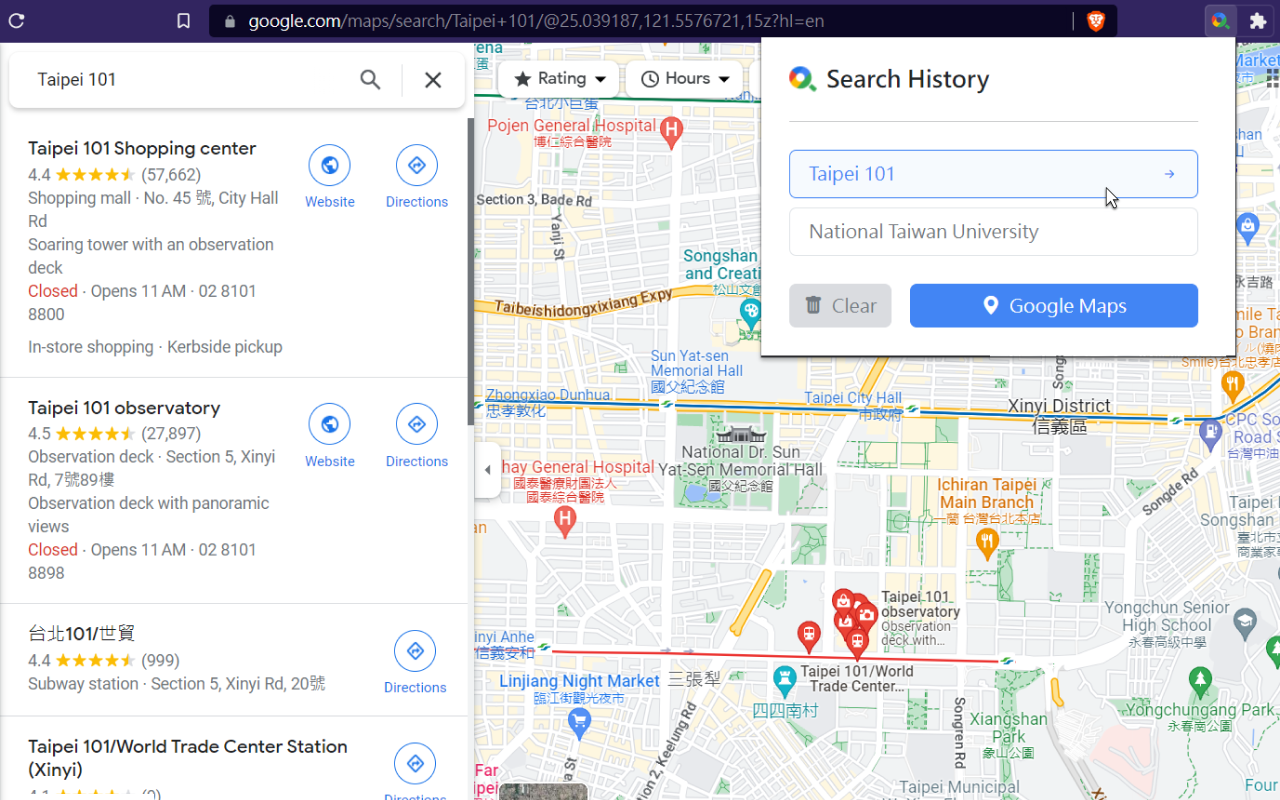
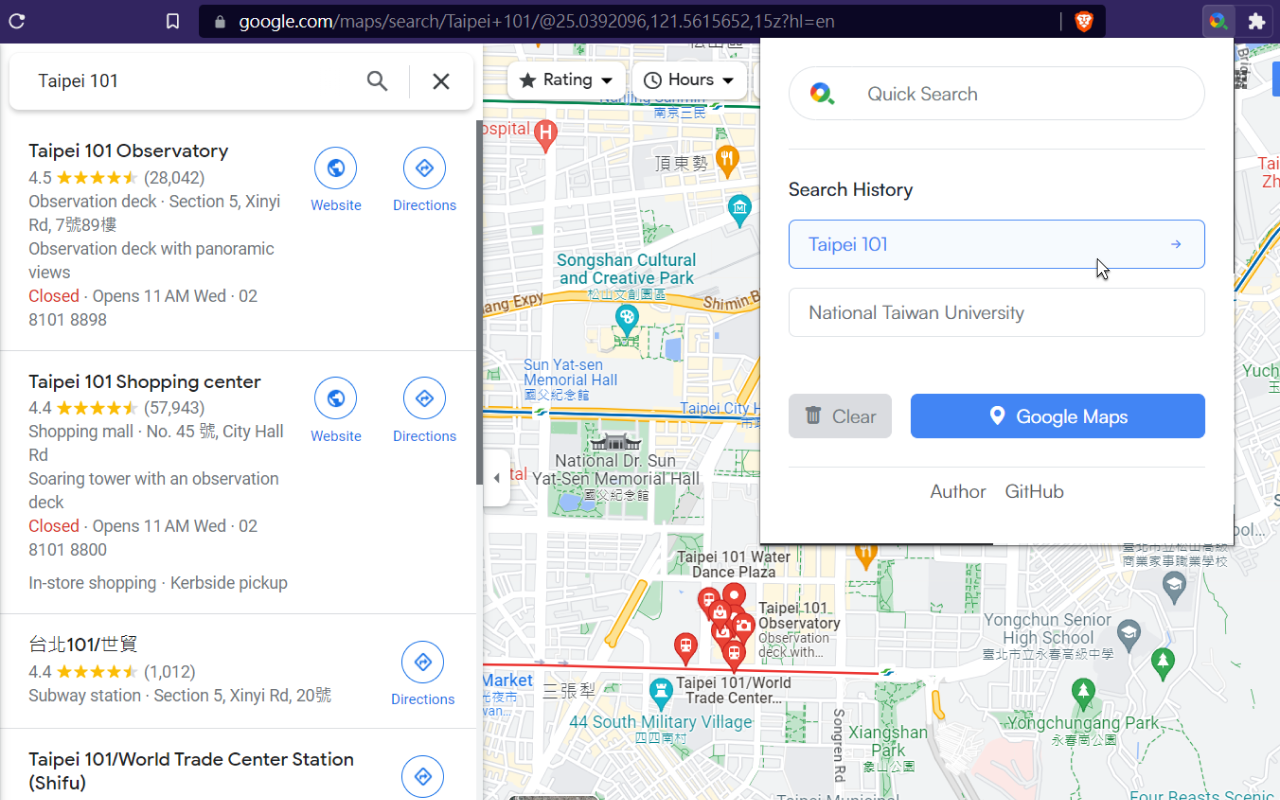
update thumbnail and fonts

diff --git a/Package/popup.html b/Package/popup.html
@@ -6,7 +6,7 @@
     <link rel="stylesheet" href="https://cdn.jsdelivr.net/npm/bootstrap@5.3.0-alpha3/dist/css/bootstrap.min.css">
     <link rel="stylesheet" href="https://cdn.jsdelivr.net/npm/bootstrap-icons@1.10.3/font/bootstrap-icons.min.css">
     <link rel="stylesheet" href="popup.css">
-    <link href="https://fonts.googleapis.com/css?family=Lato&display=swap" rel="stylesheet">
+    <link href="https://fonts.cdnfonts.com/css/satoshi" rel="stylesheet">
 </head>
 
 <body class="d-flex">
@@ -20,7 +20,7 @@
             </div>
         </header>
         <section class="py-4">
-            <h6 class="my-0 mb-2">Search History</h6>
+            <h6 class="my-0 mb-3">Search History</h6>
             <p id="emptyMessage" class="text-muted text-center pt-3 pb-4">Simply highlight text and search!
                 <br> Your history will be saved here. &#128076;&#127997;
             </p>

diff --git a/Package/popup.css b/Package/popup.css
@@ -1,7 +1,9 @@
+@import url('https://fonts.cdnfonts.com/css/satoshi');
+
 body {
     width: 400px;
     color: #202833;
-    font-family: 'Lato', sans-serif;
+    font-family: 'Satoshi', sans-serif;
 }
 
 /* search bar */
